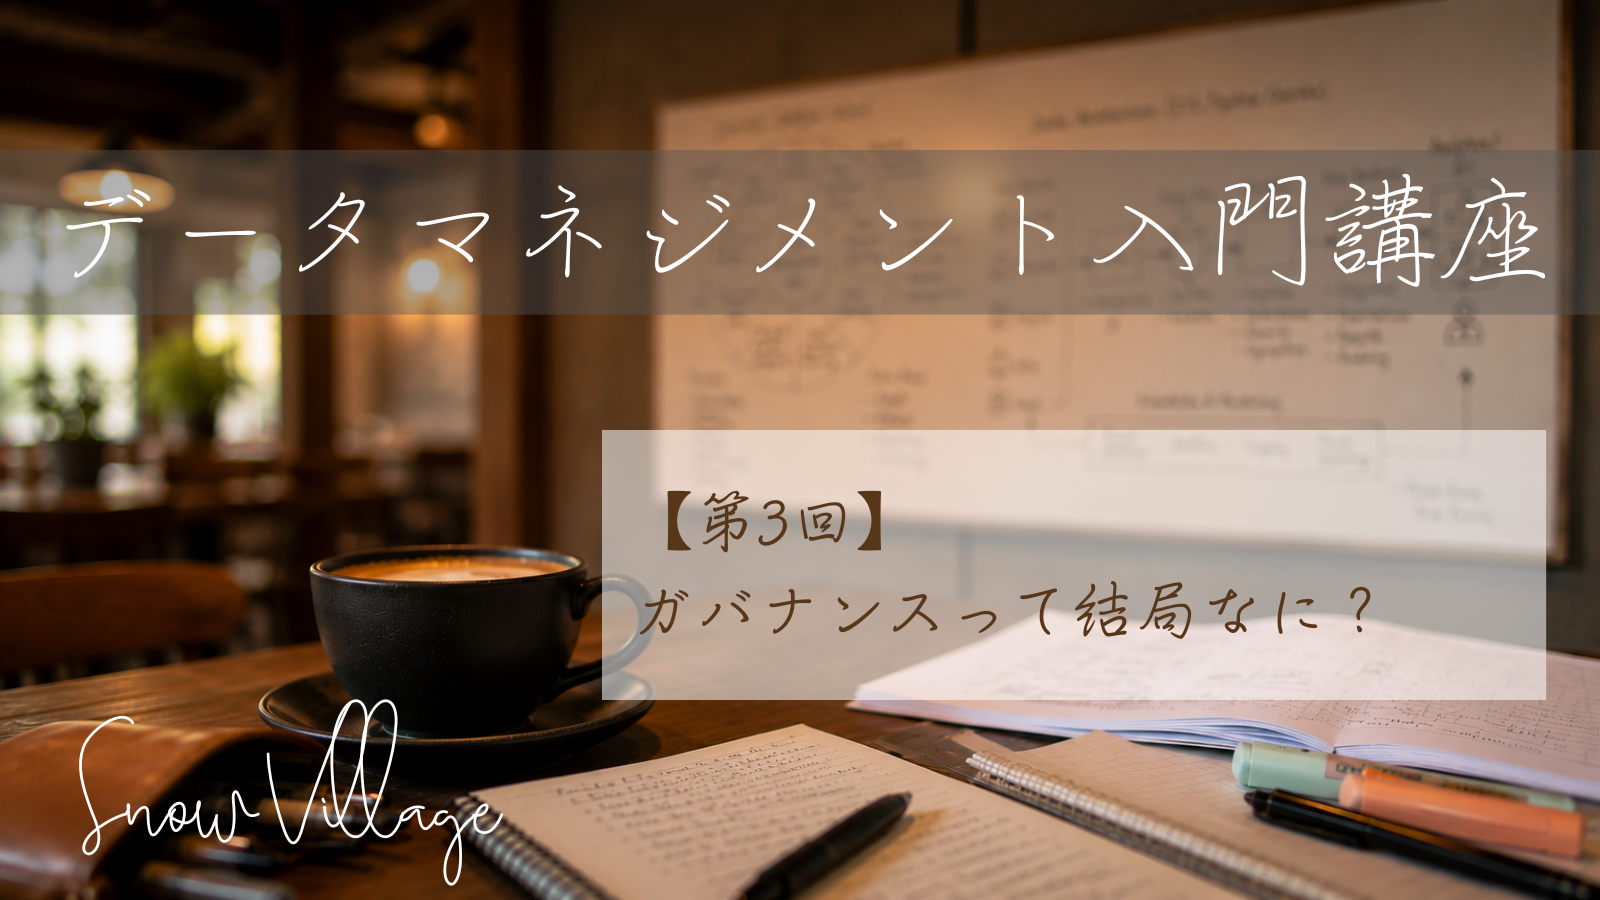
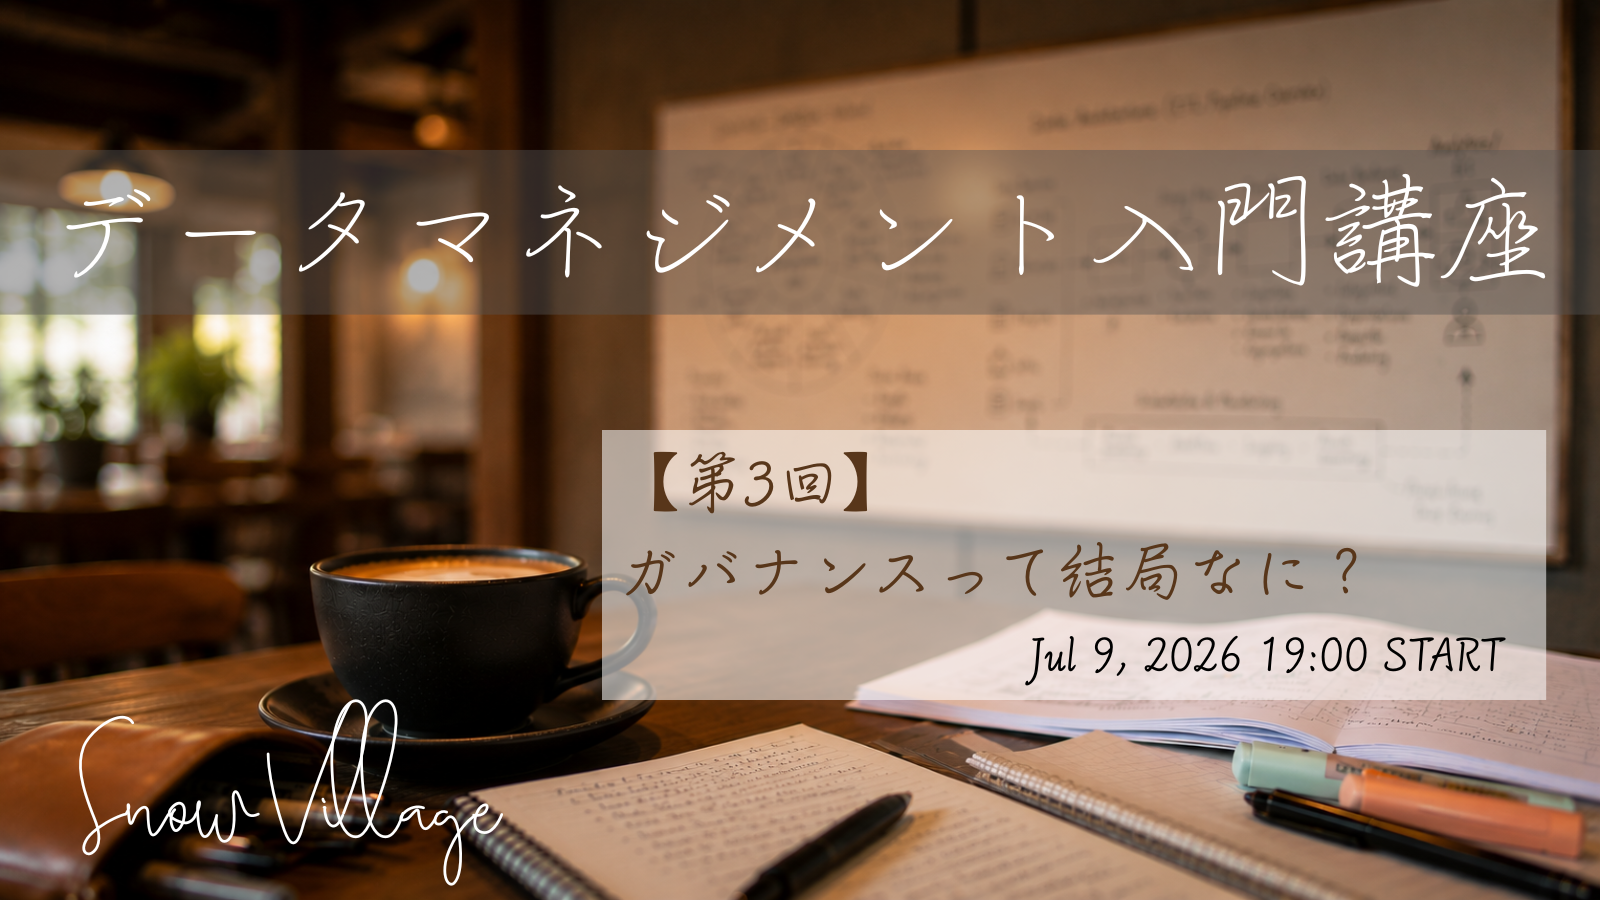
第 3 回準備: 講師・説明・告知の確定、第 2 回サムネを通常化
- 第 3 回 サムネを TechPlay (event/995327) リンク化、暗グラデで
  「7/9 開催」「TechPlay で申し込み受付中」を白抜き表示
- 第 3 回 講師を エクスチュア株式会社 喜田 紘介 に確定、説明文を反映
- 第 3 回 サムネ画像を更新差し替え
- 第 2 回 開催後のためサムネを通常表示に戻す (TechPlay リンクは維持)
- フロート + 最下部 Next Session の告知を 第 3 回・7/9 (木) に更新
- 申し込み TechPlay URL を /995322 → /995327 に切り替え

Changed region(s): [[0.625, 0.5911, 0.9375, 0.7467], [0.375, 0.4978, 0.625, 0.7156], [0.625, 0.5911, 0.6562, 0.6222]]

diff --git a/index.html b/index.html
@@ -75,9 +75,8 @@
 
         <!-- 第 2 回 -->
         <li class="session">
-          <a class="session-thumb session-thumb-overlay session-thumb-overlay--cta" href="https://techplay.jp/event/995322" target="_blank" rel="noopener" aria-label="第2回 TechPlay で申し込み（新しいタブ）">
+          <a class="session-thumb" href="https://techplay.jp/event/995322" target="_blank" rel="noopener" aria-label="第2回 TechPlay イベントページを開く（新しいタブ）">
             <img src="images/datamanagement-02.png" alt="第2回 データウェアハウスとデータレイクハウス サムネイル">
-            <span class="thumb-overlay-text">5/27 開催<br>TechPlay で申し込み受付中</span>
           </a>
           <div class="session-body">
             <h3 class="brush-heading session-title">第2回: データウェアハウスとデータレイクハウス</h3>
@@ -93,14 +92,14 @@
 
         <!-- 第 3 回 -->
         <li class="session">
-          <div class="session-thumb session-thumb-overlay session-thumb-overlay--coming">
+          <a class="session-thumb session-thumb-overlay session-thumb-overlay--cta" href="https://techplay.jp/event/995327" target="_blank" rel="noopener" aria-label="第3回 TechPlay で申し込み（新しいタブ）">
             <img src="images/datamanagement-03.png" alt="第3回 ガバナンスって結局なに？ サムネイル">
-            <span class="thumb-overlay-text">Coming Soon</span>
-          </div>
+            <span class="thumb-overlay-text">7/9 開催<br>TechPlay で申し込み受付中</span>
+          </a>
           <div class="session-body">
             <h3 class="brush-heading session-title">第3回: ガバナンスって結局なに？</h3>
-            <p class="session-speaker">講師: TBA</p>
-            <p class="session-desc is-placeholder">（説明文を準備中）</p>
+            <p class="session-speaker">講師: エクスチュア株式会社　喜田 紘介</p>
+            <p class="session-desc">ガバナンスは直訳すると「統制・統治」で、イメージの近い単語に「セキュリティ」「権限」「ロール」「ポリシー」など多数の機能があり初級者にとって悩みの種ではないでしょうか。本講座でガバナンスを攻略し、安全かつ有用なデータ基盤のあるべき姿を目指しましょう！</p>
             <div class="session-links">
               <a class="link-label" href="#" aria-disabled="true" aria-label="第 3 回 YouTube（公開準備中）"><img src="images/youtube.png" alt="YouTube" class="handwritten"></a>
               <a class="link-label" href="#" aria-disabled="true" aria-label="第 3 回 資料（公開準備中）"><img src="images/slide.png" alt="資料" class="handwritten"></a>
@@ -195,8 +194,8 @@
   <aside class="floating-panel" aria-label="次回開催の案内・運営情報">
     <section class="info-card">
       <p class="info-eyebrow">Next session</p>
-      <p>次回は <strong>第 2 回</strong>、<strong>5/27</strong> にオンラインで開催します。リアルタイム視聴は以下からお申し込みください。</p>
-      <p><a href="https://techplay.jp/event/995322" target="_blank" rel="noopener">TechPlay で申し込む →</a></p>
+      <p>次回は <strong>第 3 回</strong>、<strong>7/9 (木)</strong> にオンラインで開催します。リアルタイム視聴は以下からお申し込みください。</p>
+      <p><a href="https://techplay.jp/event/995327" target="_blank" rel="noopener">TechPlay で申し込む →</a></p>
     </section>
     <section class="info-card">
       <p class="info-eyebrow">Community</p>
@@ -209,8 +208,8 @@
     <div class="bottom-info-grid">
       <section class="info-card">
         <p class="info-eyebrow">Next session</p>
-        <p>次回は <strong>第 2 回</strong>、<strong>5/27</strong> にオンラインで開催します。リアルタイム視聴は以下からお申し込みください。</p>
-        <p><a href="https://techplay.jp/event/995322" target="_blank" rel="noopener">TechPlay で申し込む →</a></p>
+        <p>次回は <strong>第 3 回</strong>、<strong>7/9 (木)</strong> にオンラインで開催します。リアルタイム視聴は以下からお申し込みください。</p>
+        <p><a href="https://techplay.jp/event/995327" target="_blank" rel="noopener">TechPlay で申し込む →</a></p>
       </section>
       <section class="info-card">
         <p class="info-eyebrow">Community</p>